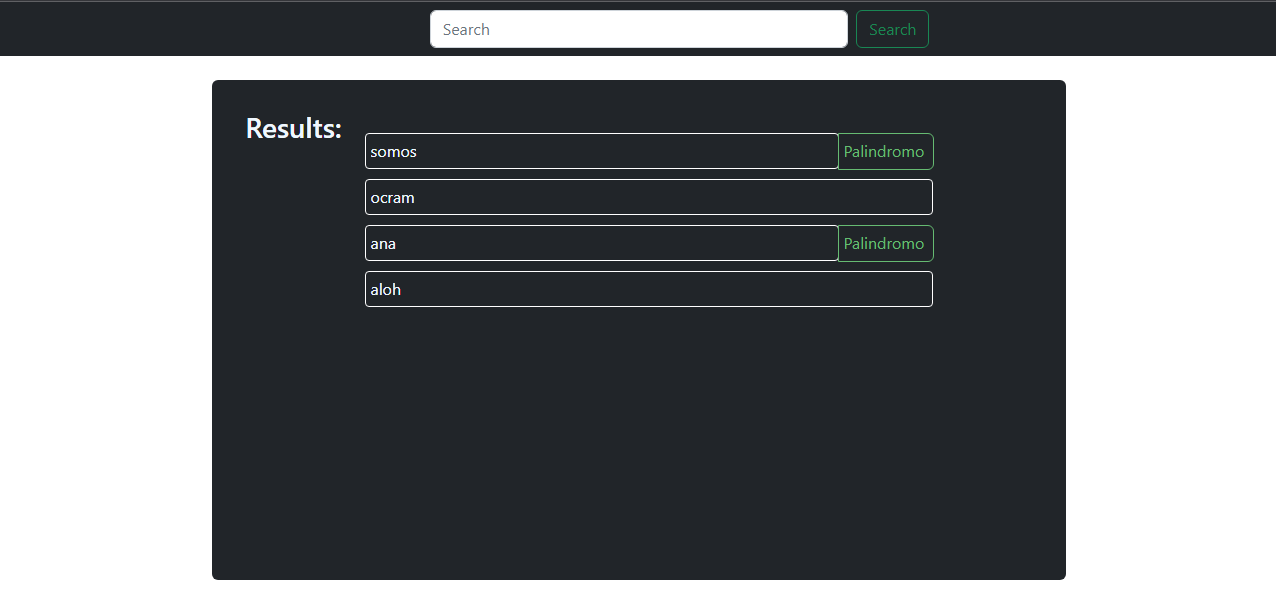
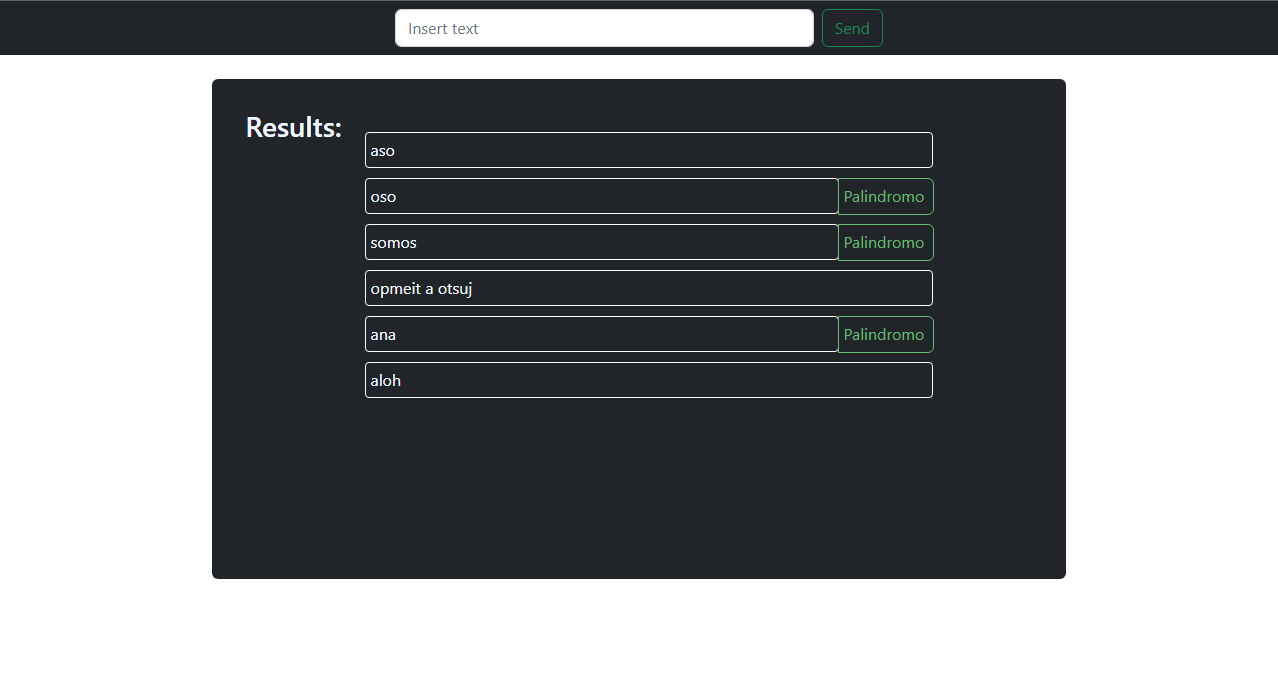
Readme

Changed region(s): [[0.0, 0.0, 1.0, 0.5941], [0.1528, 0.8317, 0.8558, 0.9802]]

diff --git a/src/components/Home/Home.spec.js b/src/components/Home/Home.spec.js
@@ -12,8 +12,8 @@ describe("Home",()=>{
                 <Home/>
             </Provider>
             )
-        const input = home.getByPlaceholderText('Search')
-        const button = home.getByText('Search')
+        const input = home.getByPlaceholderText('Insert text')
+        const button = home.getByText('Send')
         fireEvent.change(input, {target: {value: 'hola'}})
         fireEvent.click(button)
         await screen.findByText('aloh')
@@ -24,8 +24,8 @@ describe("Home",()=>{
                 <Home/>
             </Provider>
             )
-        const input = home.getByPlaceholderText('Search')
-        const button = home.getByText('Search')
+        const input = home.getByPlaceholderText('Insert text')
+        const button = home.getByText('Send')
         fireEvent.change(input, {target: {value: 'ana'}})
         fireEvent.click(button)
         await screen.findByText('Palindromo')
@@ -37,8 +37,8 @@ describe("Home",()=>{
                 <Home/>
             </Provider>
             )
-        const input = home.getByPlaceholderText('Search')
-        const button = home.getByText('Search')
+        const input = home.getByPlaceholderText('Insert text')
+        const button = home.getByText('Send')
         fireEvent.change(input, {target: {value: '123'}})
         fireEvent.click(button)
         await screen.findByText('Tienes que ingresar solo texto')

diff --git a/src/components/Nav/Nav.jsx b/src/components/Nav/Nav.jsx
@@ -2,7 +2,7 @@ import { useEffect, useState } from "react";
 import { useDispatch, useSelector } from "react-redux";
 import { searchWord } from "../../redux/actions/actions";
 import swal from 'sweetalert'
-// import './nav.css'
+import './nav.css'
 
 function Nav() {
     const dispatch = useDispatch()
@@ -27,8 +27,8 @@ function Nav() {
         <nav className="navbar navbar-light bg-dark">
             <div className="container-fluid d-flex justify-content-center">
                 <form className="d-flex col-6 col-md-4 justify-content-center">
-                    <input value={word} onChange={(e) => setWord(e.target.value)} className="form-control me-2 col-10" type="search" placeholder="Search" aria-label="Search" />
-                    <button onClick={search} className="btn btn-outline-success" type="submit">Search</button>
+                    <input value={word} onChange={(e) => setWord(e.target.value)} className="form-control me-2 col-10" type="search" placeholder="Insert text" aria-label="Search" />
+                    <button onClick={search} className="btn btn-outline-success" type="submit">Send</button>
                 </form>
             </div>
         </nav>

diff --git a/src/components/Nav/Nav.spec.js b/src/components/Nav/Nav.spec.js
@@ -15,20 +15,20 @@ describe("Nav",()=>{
         )
     })
     test("deberia poderse escribir en el input",()=>{
-        const input = nav.getByPlaceholderText('Search')
+        const input = nav.getByPlaceholderText('Insert text')
         fireEvent.change(input, {target: {value: 'hola'}})
         expect(input.value).toBe("hola")
     })
     test("debe limpiarse el input al buscar",()=>{
-        const input = nav.getByPlaceholderText('Search')
-        const button = nav.getByText('Search')
+        const input = nav.getByPlaceholderText('Insert text')
+        const button = nav.getByText('Send')
         fireEvent.change(input, {target: {value: 'hola'}})
         fireEvent.click(button)
         expect(input.value).toBe("")
 
     })
     test("debe alertar al usuario si clickea el boton sin ningun valor en el input", async ()=>{
-        const button = nav.getByText('Search')
+        const button = nav.getByText('Send')
         fireEvent.click(button)
         await screen.findByText('Escribe una palabra')
            
